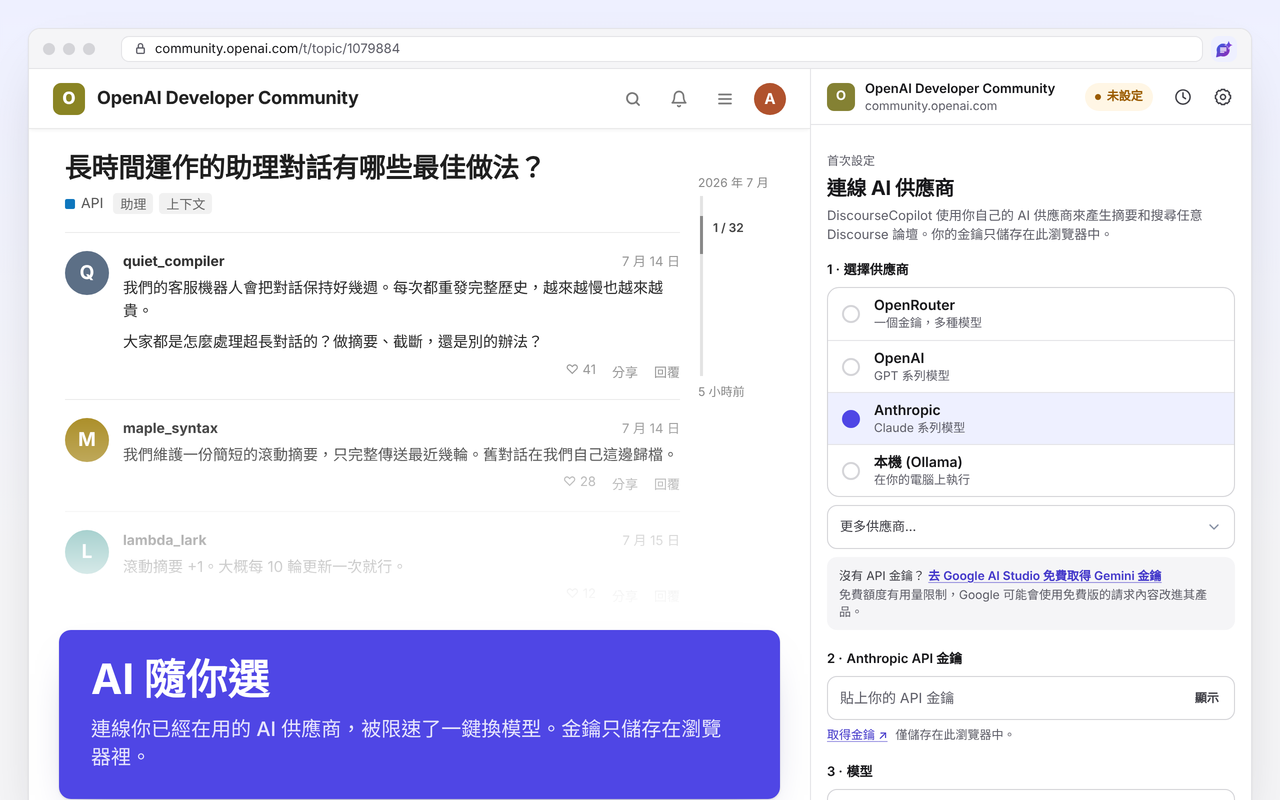
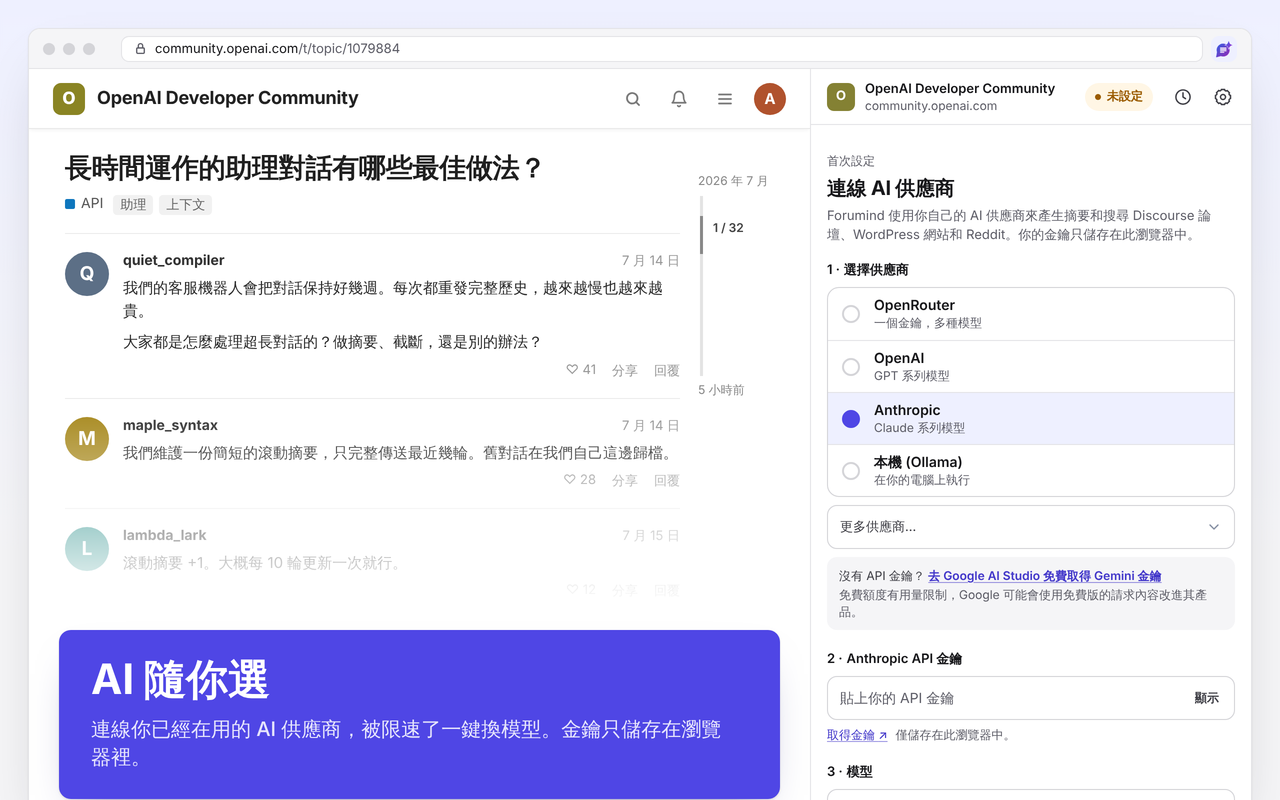
Regenerate screenshots and store images for Forumind
Store captions and promo tiles use the new positioning; 03 is renamed to
03-works-on-every-site.png.

diff --git a/tools/ui/templates/store/promo-marquee.html b/tools/ui/templates/store/promo-marquee.html
@@ -10,9 +10,9 @@
 .c2 { left: 334px; top: 96px; height: 560px; }
 </style></head><body><div class="tile">
 <div class="left">
-  <img src="/brand/wordmark/discoursecopilot-wordmark-horizontal-on-light.svg" alt="DiscourseCopilot">
-  <h1>Catch up on any Discourse<br>forum <span class="accent-text">in seconds</span></h1>
-  <ul><li>Summaries and follow-up chat</li><li>Ask the forum, with cited sources</li><li>Bring your own AI provider</li></ul>
+  <img src="/brand/wordmark/forumind-wordmark-horizontal-on-light.svg" alt="Forumind">
+  <h1>Your AI assistant<br>for the <span class="accent-text">comment section</span></h1>
+  <ul><li>Summaries and follow-up chat</li><li>Ask the forum, with cited sources</li><li>Discourse, WordPress and Reddit</li></ul>
 </div>
 <div class="right">
   <div class="card c1"><img src="/panels/marquee-summary.png" alt=""></div>

diff --git a/tools/ui/templates/store/social-preview.html b/tools/ui/templates/store/social-preview.html
@@ -14,9 +14,9 @@
 .c2 { left: 254px; top: 130px; height: 424px; }
 </style></head><body><div class="tile">
 <div class="left">
-  <img src="/brand/wordmark/discoursecopilot-wordmark-horizontal-on-light.svg" alt="DiscourseCopilot">
-  <h1>Catch up on any Discourse<br>forum <span class="accent-text">in seconds</span></h1>
-  <ul><li>Summaries and follow-up chat</li><li>Ask the forum, with cited sources</li><li>Bring your own AI provider</li></ul>
+  <img src="/brand/wordmark/forumind-wordmark-horizontal-on-light.svg" alt="Forumind">
+  <h1>Your AI assistant<br>for the <span class="accent-text">comment section</span></h1>
+  <ul><li>Summaries and follow-up chat</li><li>Ask the forum, with cited sources</li><li>Discourse, WordPress and Reddit</li></ul>
   <div class="foot">Free and open source Chrome extension</div>
 </div>
 <div class="right">

diff --git a/tools/ui/templates/readme-showcase.html b/tools/ui/templates/readme-showcase.html
@@ -142,7 +142,7 @@
     <div class="frame">
       <div class="frame-bar">
         <span class="frame-dot red"></span><span class="frame-dot yellow"></span><span class="frame-dot green"></span>
-        <span class="frame-url">DiscourseCopilot</span>
+        <span class="frame-url">Forumind</span>
       </div>
       <div class="frame-body"><img src="panels/activity-grouped-light.png" alt=""></div>
     </div>
@@ -182,7 +182,7 @@
     <div class="frame">
       <div class="frame-bar">
         <span class="frame-dot red"></span><span class="frame-dot yellow"></span><span class="frame-dot green"></span>
-        <span class="frame-url">DiscourseCopilot · Settings</span>
+        <span class="frame-url">Forumind · Settings</span>
       </div>
       <div class="frame-body"><img src="panels/settings-light.png" alt=""></div>
     </div>

diff --git a/tools/ui/templates/store/promo-small.html b/tools/ui/templates/store/promo-small.html
@@ -6,6 +6,6 @@
 .tag { font-size: 25px; font-weight: 700; letter-spacing: -0.012em; color: #18181b; text-align: center; line-height: 1.2; }
 .bar { position: absolute; left: 0; right: 0; bottom: 0; height: 8px; background: #4f46e5; }
 </style></head><body><div class="tile">
-<img src="/brand/wordmark/discoursecopilot-wordmark-horizontal-on-light.svg" alt="DiscourseCopilot">
-<div class="tag">AI copilot for <span class="accent-text">Discourse forums</span></div>
+<img src="/brand/wordmark/forumind-wordmark-horizontal-on-light.svg" alt="Forumind">
+<div class="tag">Your AI assistant<br>for the <span class="accent-text">comment section</span></div>
 <div class="bar"></div></div></body></html>

diff --git a/store-assets/LISTING.md b/store-assets/LISTING.md
@@ -1,27 +1,27 @@
 # Chrome Web Store listing
 
-The text submitted to the Chrome Web Store for DiscourseCopilot, kept here so it changes together with the extension. Update it whenever `manifest.json` permissions or user-facing features change. Current as of version 2.6.0. The release workflow uploads only the package, never this text: the listing text, screenshots and permission justifications are pasted by hand into the [developer dashboard](https://chrome.google.com/webstore/devconsole), so copy any change made here there too (and the other way round). The short description comes from `extDescription` in `public/_locales/en/messages.json` (the manifest's `description` is a `__MSG_extDescription__` placeholder); the Chinese ones are in `public/_locales/zh_CN/messages.json` and `public/_locales/zh_TW/messages.json`.
+The text submitted to the Chrome Web Store for Forumind, kept here so it changes together with the extension. Update it whenever `manifest.json` permissions or user-facing features change. Current as of version 2.6.0. The release workflow uploads only the package, never this text: the listing text, screenshots and permission justifications are pasted by hand into the [developer dashboard](https://chrome.google.com/webstore/devconsole), so copy any change made here there too (and the other way round). The short description comes from `extDescription` in `public/_locales/en/messages.json` (the manifest's `description` is a `__MSG_extDescription__` placeholder); the Chinese ones are in `public/_locales/zh_CN/messages.json` and `public/_locales/zh_TW/messages.json`.
 
 ## Summary (short description, max 132 characters)
 
-AI summaries and research copilot for any Discourse forum
+Your AI assistant for the comment section. Formerly DiscourseCopilot.
 
 ## Description
 
 Kept short and free of brand-name lists: the Chrome Web Store's keyword-spam check rejected an earlier version that listed every supported AI provider in one line. Keep provider names out of the description and screenshot captions (the README can list them).
 
-DiscourseCopilot helps you catch up on any Discourse forum in seconds, right from Chrome's side panel.
+Forumind (formerly DiscourseCopilot) is your AI assistant for the comment section: catch up on any Discourse forum, WordPress blog comments (like Doctor of Credit) or Reddit thread in seconds, right from Chrome's side panel.
 
 • Summarize long topics: the original post, how people responded, and the key takeaways, even on topics with thousands of replies.
 • Ask follow-up questions about the topic you're reading. The whole thread, every reply, is the context, so answers can point to the posts that said it.
 • Ask the forum: an agent searches the forum, reads the most relevant discussions step by step (you can watch each step), and answers with numbered sources you can click. Ask follow-up questions on the same answer.
-• Made for forums built with Discourse, including your own community. One click allows each forum you use; the extension does not read other websites.
+• Made for Discourse forums (including your own community), WordPress sites that leave their public REST API open, and Reddit while you're signed in. One click allows each site you use; the extension does not read other websites.
 • Bring your own AI: connect the AI provider you already use with your own API key, or run a model on your own computer.
 • Your language: answers follow the language of the discussion, or one you choose.
 • Organized history: saved summaries, chats and answers, grouped by forum. Keep the ones you need.
 • Light and dark mode.
 
-Privacy first: your API key and history stay in your browser. Forum content is sent only to the AI provider you choose (or stays on your computer with a local model). DiscourseCopilot reads only the forums you allow, and you can remove access anytime in Settings. No accounts, no analytics, no tracking.
+Privacy first: your API key and history stay in your browser. Forum content is sent only to the AI provider you choose (or stays on your computer with a local model). Forumind reads only the forums you allow, and you can remove access anytime in Settings. No accounts, no analytics, no tracking.
 
 Free and open source (Apache-2.0): https://github.com/kccarlos/DiscourseCopilot
 
@@ -29,15 +29,15 @@ Free and open source (Apache-2.0): https://github.com/kccarlos/DiscourseCopilot
 
 Paste into the dashboard's Chinese (Simplified) listing. The name and short description are also in `public/_locales/zh_CN/messages.json`; keep them in sync. Screenshots and promo tiles: `store-assets/zh-CN/` (captions in `tools/ui/fixtures/copy/zh-CN.mjs`).
 
-Name: DiscourseCopilot
+Name: Forumind
 
 ### Summary (short description, max 132 characters)
 
-为任意 Discourse 论坛提供 AI 助手：一键总结贴文，全站搜索并获得带来源的回答。
+你的评论区 AI 助手。原名 DiscourseCopilot。
 
 ### Description
 
-逛 Discourse 论坛，不用再爬楼。DiscourseCopilot 在 Chrome 侧边栏里帮你读完长帖、回答追问、搜遍整个论坛。
+你的评论区 AI 助手。逛 Discourse 论坛、WordPress 博客评论和 Reddit，不用再爬楼。Forumind 在 Chrome 侧边栏里帮你读完长帖、回答追问、搜遍整个论坛。
 
 • 一键爬楼总结：原帖内容、大家的回应和关键要点，即使话题有上千条回复也没问题。
 • 针对整栋楼追问：每一层楼都在上下文里，所以可以问“哪一层楼提到了解决办法？”，回答会告诉你是哪一层楼说的。
@@ -45,12 +45,12 @@ Name: DiscourseCopilot
 • 你能看到的，它都能读：用你自己的论坛登录状态读帖和搜索，需要登录才能看的帖子也能总结和搜索。
 • 不给论坛添负担：总结和对话按帖子保存在本地，有新回复时只读取新增的部分。
 • 后台运行：总结和提问都在后台进行，你可以接着看别的帖子，回来再看结果。
-• 专为基于 Discourse 搭建的论坛设计，包括你自己的社区。点一下即可允许访问你用到的每个论坛，扩展不会读取其他网站。
+• 适用于基于 Discourse 搭建的论坛（包括你自己的社区）、开放公开 REST API 的 WordPress 网站，以及已登录的 Reddit。点一下即可允许访问你用到的每个网站，扩展不会读取其他网站。
 • 自带 AI：连接你已经在用的 AI 服务商并填入自己的 API 密钥，也可以在自己的电脑上运行模型。被限速了，一键切换到别的模型。
 • 你的语言：界面提供简体中文、繁体中文和英文，跟随浏览器语言；回答默认跟随讨论的语言，也可以自行指定。
 • 支持浅色和深色模式。
 
-隐私优先：你的 API 密钥和历史记录都保存在浏览器里。论坛内容只会发送给你选择的 AI 服务商（使用本地模型时则完全留在你的电脑上）。DiscourseCopilot 只读取你允许的论坛，你可以随时在设置中移除访问权限。无需账号，没有统计分析，不做任何追踪。
+隐私优先：你的 API 密钥和历史记录都保存在浏览器里。论坛内容只会发送给你选择的 AI 服务商（使用本地模型时则完全留在你的电脑上）。Forumind 只读取你允许的论坛，你可以随时在设置中移除访问权限。无需账号，没有统计分析，不做任何追踪。
 
 免费开源（Apache-2.0）：https://github.com/kccarlos/DiscourseCopilot
 
@@ -58,7 +58,7 @@ Name: DiscourseCopilot
 
 1. `01-summarize-topics.png`：**一键总结 Discourse 长帖** 一键爬楼看要点，接着追问，连是哪一层楼说的都告诉你。
 2. `02-ask-the-forum.png`：**全站搜索，回答附带来源** 智能体一步步搜索、阅读，并标出它引用的帖子。
-3. `03-every-discourse-forum.png`：**任何 Discourse 论坛都能用** 用你自己的登录状态读帖，登录才能看的帖子也能总结和搜索。
+3. `03-works-on-every-site.png`：**Discourse 论坛、WordPress 评论和 Reddit 帖子都能用** 用你自己的登录状态读帖，登录才能看的帖子也能总结和搜索。
 4. `04-bring-your-own-ai.png`：**AI 随你选** 连接你已经在用的 AI 服务商，被限速了一键换模型。密钥只保存在浏览器里。
 5. `05-light-and-dark-mode.png`：**浅色和深色模式** 侧边栏自动跟随系统主题。
 
@@ -66,15 +66,15 @@ Name: DiscourseCopilot
 
 Paste into the dashboard's Chinese (Traditional) listing. The name and short description are also in `public/_locales/zh_TW/messages.json`; keep them in sync. Screenshots and promo tiles: `store-assets/zh-TW/` (captions in `tools/ui/fixtures/copy/zh-TW.mjs`).
 
-Name: DiscourseCopilot
+Name: Forumind
 
 ### Summary (short description, max 132 characters)
 
-為任何 Discourse 論壇提供 AI 助理：一鍵產生貼文摘要，全站搜尋並取得附來源的回答。
+你的留言區 AI 助手。原名 DiscourseCopilot。
 
 ### Description
 
-逛 Discourse 論壇，不用再爬文。DiscourseCopilot 在 Chrome 側邊欄裡幫你讀完長篇討論、回答追問、搜遍整個論壇。
+你的留言區 AI 助手。逛 Discourse 論壇、WordPress 部落格留言和 Reddit，不用再爬文。Forumind 在 Chrome 側邊欄裡幫你讀完長篇討論、回答追問、搜遍整個論壇。
 
 • 一鍵爬文摘要：原始貼文、大家的回應和重點整理，即使話題有上千則回覆也沒問題。
 • 針對整串討論追問：每一則回覆都在上下文裡，所以可以問「哪一樓提到了解決辦法？」，回答會告訴你是哪一樓說的。
@@ -82,12 +82,12 @@ Name: DiscourseCopilot
 • 你看得到的，它都能讀：用你自己的論壇登入狀態讀文和搜尋，要登入才看得到的貼文也能摘要和搜尋。
 • 不給論壇添負擔：摘要和對話按貼文儲存在本機，有新回覆時只讀取新增的部分。
 • 背景執行：摘要和提問都在背景進行，你可以接著看別的貼文，回來再看結果。
-• 專為以 Discourse 架設的論壇設計，包括你自己的社群。點一下即可允許存取你用到的每個論壇，擴充功能不會讀取其他網站。
+• 適用於以 Discourse 架設的論壇（包括你自己的社群）、開放公開 REST API 的 WordPress 網站，以及已登入的 Reddit。點一下即可允許存取你用到的每個網站，擴充功能不會讀取其他網站。
 • 自備 AI：連線你已經在用的 AI 供應商並填入自己的 API 金鑰，也可以在自己的電腦上執行模型。被限速了，一鍵切換到別的模型。
 • 你的語言：介面提供繁體中文、簡體中文和英文，跟隨瀏覽器語言；回答預設跟隨討論的語言，也可以自行指定。
 • 支援淺色和深色模式。
 
-隱私優先：你的 API 金鑰和歷史紀錄都儲存在瀏覽器裡。論壇內容只會傳送給你選擇的 AI 供應商（使用本機模型時則完全留在你的電腦上）。DiscourseCopilot 只讀取你允許的論壇，你可以隨時在設定中移除存取權限。不需要帳號，沒有統計分析，不做任何追蹤。
+隱私優先：你的 API 金鑰和歷史紀錄都儲存在瀏覽器裡。論壇內容只會傳送給你選擇的 AI 供應商（使用本機模型時則完全留在你的電腦上）。Forumind 只讀取你允許的論壇，你可以隨時在設定中移除存取權限。不需要帳號，沒有統計分析，不做任何追蹤。
 
 免費開源（Apache-2.0）：https://github.com/kccarlos/DiscourseCopilot
 
@@ -95,13 +95,13 @@ Name: DiscourseCopilot
 
 1. `01-summarize-topics.png`：**一鍵摘要 Discourse 長篇討論** 一鍵爬文看重點，接著追問，連是哪一樓說的都告訴你。
 2. `02-ask-the-forum.png`：**全站搜尋，回答附帶來源** AI 代理一步步搜尋、閱讀，並標出它引用的貼文。
-3. `03-every-discourse-forum.png`：**任何 Discourse 論壇都能用** 用你自己的登入狀態讀文，要登入才看得到的貼文也能摘要和搜尋。
+3. `03-works-on-every-site.png`：**Discourse 論壇、WordPress 留言和 Reddit 貼文都能用** 用你自己的登入狀態讀文，要登入才看得到的貼文也能摘要和搜尋。
 4. `04-bring-your-own-ai.png`：**AI 隨你選** 連線你已經在用的 AI 供應商，被限速了一鍵換模型。金鑰只儲存在瀏覽器裡。
 5. `05-light-and-dark-mode.png`：**淺色和深色模式** 側邊欄自動跟隨系統主題。
 
 ## Single purpose
 
-DiscourseCopilot summarizes Discourse forum topics and answers questions about Discourse forums, using an AI provider the user configures.
+Forumind summarizes forum topics, WordPress posts and Reddit posts, and answers questions about those sites, using an AI provider the user configures.
 
 ## Permission justifications
 
@@ -110,7 +110,7 @@ DiscourseCopilot summarizes Discourse forum topics and answers questions about D
 The extension sends the user's summary and question requests, with the forum text they concern, to the AI provider the user selected, using the user's own API key. localhost and 127.0.0.1 are for local models (Ollama on port 11434, LM Studio on port 1234). No other hosts are contacted without the user's action.
 
 **Optional host permissions: `https://*/*` (and `http://*/*`)**
-Discourse forums are self-hosted on arbitrary domains, so they cannot be listed in the manifest. Nothing is granted at install. The first time the user uses a forum, the side panel shows "Allow DiscourseCopilot on {forum}" with an "Allow access to {forum host}" button, and the extension requests access to that one origin (for example `https://community.openai.com/*`) with `chrome.permissions.request`. With it, the extension reads that forum's topic JSON (`/t/{id}.json`), raw posts (`/raw/{id}`), search results (`/search.json`) and the latest topics (`/latest.json`) with the user's existing login, including from background tasks that keep running after the user switches tabs, and runs its content script there (topic detection and an in-page button that opens the side panel). Users can see and remove every enabled forum in Settings → Forum access. `http://*/*` is requested only for one origin when a user enters a local-model server on another computer (e.g. `http://192.168.1.20:11434`).
+Discourse forums are self-hosted on arbitrary domains, so they cannot be listed in the manifest. Nothing is granted at install. The first time the user uses a forum, the side panel shows "Allow Forumind on {forum}" with an "Allow access to {forum host}" button, and the extension requests access to that one origin (for example `https://community.openai.com/*`) with `chrome.permissions.request`. With it, the extension reads that forum's topic JSON (`/t/{id}.json`), raw posts (`/raw/{id}`), search results (`/search.json`) and the latest topics (`/latest.json`) with the user's existing login, including from background tasks that keep running after the user switches tabs, and runs its content script there (topic detection and an in-page button that opens the side panel). Users can see and remove every enabled forum in Settings → Forum access. `http://*/*` is requested only for one origin when a user enters a local-model server on another computer (e.g. `http://192.168.1.20:11434`).
 
 **declarativeNetRequestWithHostAccess**
 Ollama (a local model server) answers HTTP 403 to every request that carries a browser extension's `Origin` header unless the user started it with a special environment variable, so summaries and chat fail on a default install. The extension registers one declarativeNetRequest rule that removes only the `Origin` request header, only from requests the extension itself makes (`initiatorDomains` is the extension's own ID), and only to the local model server addresses the user uses: `localhost`, `127.0.0.1`, and the address of a custom Ollama or LM Studio server the user entered and allowed. Requests from web pages and to any other address are not modified, the rule does not block or redirect anything, and it reads no page content. It uses the host permissions the extension already has.
@@ -143,7 +143,7 @@ Captions (title, then subtitle), also free of provider brand names:
 
 1. `01-summarize-topics.png`: **Summarize any Discourse topic in seconds.** Get the main points of a long thread, then ask follow-up questions about it.
 2. `02-ask-the-forum.png`: **Ask the whole forum — answers with sources.** An agent searches and reads step by step, then cites the posts it used.
-3. `03-every-discourse-forum.png`: **Made for Discourse forums.** One click enables each forum you use. Saved summaries and answers stay grouped by forum.
+3. `03-works-on-every-site.png`: **Discourse forums, WordPress comments and Reddit threads.** One click enables each site you use. Saved summaries and answers stay grouped by site.
 4. `04-bring-your-own-ai.png`: **Bring your own AI.** Connect the AI provider you already use, or run a model on your own computer. Your key stays in your browser.
 5. `05-light-and-dark-mode.png`: **Light and dark mode.** The side panel follows your system theme automatically.
 
@@ -151,6 +151,6 @@ Promo tiles: `promo-small-440x280.png` and `promo-marquee-1400x560.png`.
 
 GitHub social preview (not a store image): `social-preview-1280x640.png`, the marquee tile re-laid for 2:1. Upload it in the repository's **Settings → General → Social preview**; it is what X, Slack, WeChat and others show for a link to the repository.
 
-`store-assets/01-…05-*.png` are 1280×800 (24-bit, no alpha). They show the side panel on forums that are already allowed; the "Allow DiscourseCopilot on {forum}" card is pictured in the README (`docs/screenshots/feature-allow-access.png`).
+`store-assets/01-…05-*.png` are 1280×800 (24-bit, no alpha). They show the side panel on forums that are already allowed; the "Allow Forumind on {forum}" card is pictured in the README (`docs/screenshots/feature-allow-access.png`).
 
 They are generated by `tools/ui/store-shots.mjs` (`pnpm shots:store --write`, and `--locale=zh-CN` / `--locale=zh-TW` for `store-assets/zh-CN/` and `store-assets/zh-TW/`, the images for the Chinese listings; see [DEVELOPMENT.md, "UI tests and screenshots"](../DEVELOPMENT.md#ui-tests-and-screenshots)). Captions, promo copy and the forum text in each language live in `tools/ui/fixtures/copy/`.
